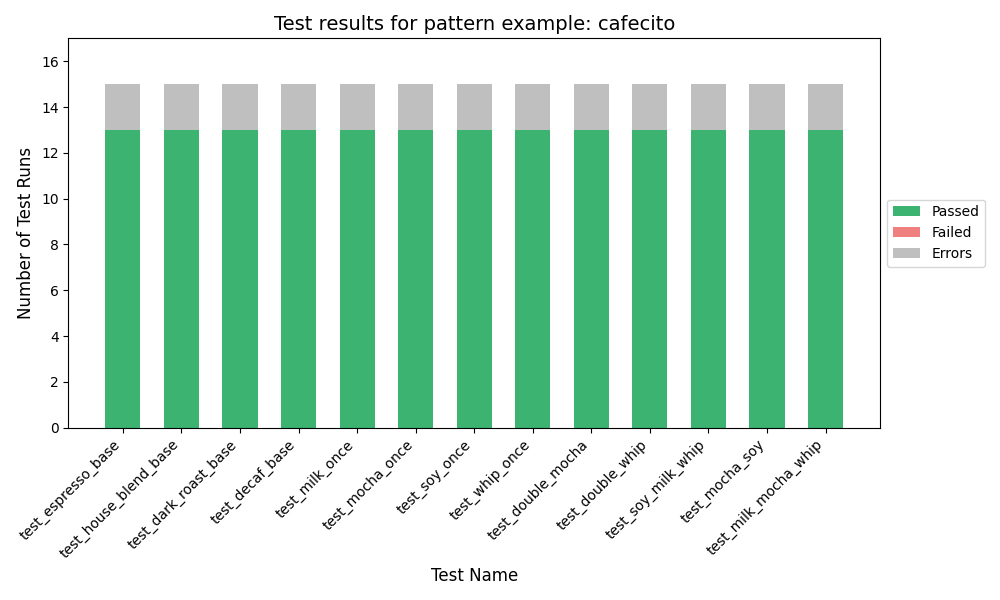
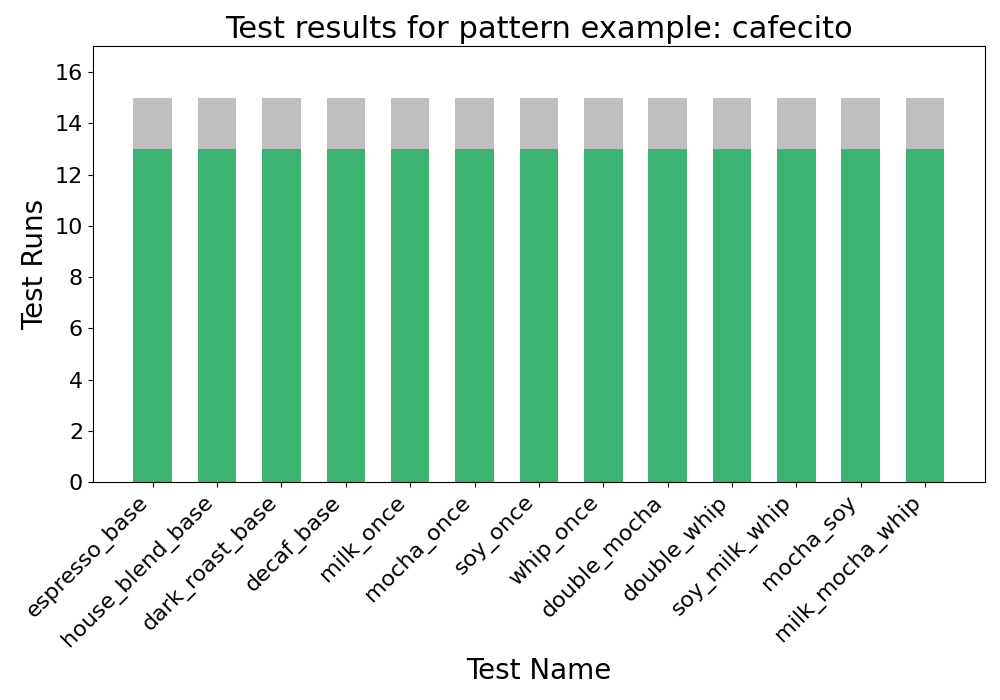
update to readme

diff --git a/data/tools/plotgeneration/plot_report_testnames.py b/data/tools/plotgeneration/plot_report_testnames.py
@@ -5,7 +5,7 @@ import matplotlib.pyplot as plt
 import json
 import sys
 
-BASEDIR = "../results/"
+BASEDIR = "../../results/"
 
 PARENTFOLDER = sys.argv[1] if len(sys.argv) > 1 else "geminiflash2.5_1"   # This is the name of the parent folder you want to use for grouping results.
 #gpt4o-mini
@@ -51,6 +51,11 @@ def gather_full_test_results(base_dir=BASEDIR):
                     if 'test' in df.columns and 'outcome' in df.columns:
                         for _, row in df.iterrows():
                             test_name = row['test'].split("::")[-1]
+                            #remove leading test_ from test_name
+                            test_name = test_name.replace("test_", "", 1)
+                            #if test_name > 30 truncate
+                            if len(test_name) > 32:
+                                test_name = test_name[:32] + "..."
                             outcome = row['outcome']
                             if outcome in ['passed', 'failed']:
                                 result[parent_folder_name][patternexample]['tests'][test_name][outcome] += 1
@@ -61,7 +66,10 @@ def gather_full_test_results(base_dir=BASEDIR):
 
 
 
-def plot_stacked_test_results(results_dict, parent_folder_name, save_plots=False, save_dir="../report/test_plots"):
+import os
+import matplotlib.pyplot as plt
+
+def plot_stacked_test_results(results_dict, parent_folder_name, save_plots=False, save_dir="../../report/test_plots"):
     for patternexample, data in results_dict.items():
         tests = data['tests']
         errors = data['errors']
@@ -75,7 +83,8 @@ def plot_stacked_test_results(results_dict, parent_folder_name, save_plots=False
         bottom_error = [p + f for p, f in zip(passed_counts, failed_counts)]
 
         fig_width = max(10, 0.75 * len(test_names))  # dynamic width
-        plt.figure(figsize=(fig_width, 6))
+
+        plt.figure(figsize=(fig_width, 7))
         plt.bar(test_names, passed_counts, label='Passed', color='mediumseagreen', width=0.6)
         plt.bar(test_names, failed_counts, bottom=bottom_failed, label='Failed', color='lightcoral', width=0.6)
         plt.bar(test_names, error_counts, bottom=bottom_error, label='Errors', color='gray', alpha=0.5, width=0.6)
@@ -83,20 +92,62 @@ def plot_stacked_test_results(results_dict, parent_folder_name, save_plots=False
         max_y = max([p + f + e for p, f, e in zip(passed_counts, failed_counts, error_counts)])
         plt.ylim(0, max_y + 2)
 
-        plt.xlabel("Test Name", fontsize=12)
-        plt.ylabel("Number of Test Runs", fontsize=12)
-        plt.title(f"Test results for pattern example: {patternexample}", fontsize=14)
-        plt.xticks(rotation=45, ha='right', fontsize=10)
-        plt.yticks(fontsize=10)
-        plt.legend(loc='center left', bbox_to_anchor=(1.0, 0.5))
+        plt.xlabel("Test Name", fontsize=20)            # bigger xlabel
+        plt.ylabel("Test Runs", fontsize=20)  # bigger ylabel
+        plt.title(f"Test results for pattern example: {patternexample}", fontsize=22)  # bigger title
+        plt.xticks(rotation=45, ha='right', fontsize=16)  # bigger x ticks
+        plt.yticks(fontsize=16)                            # bigger y ticks
+           
+        #plt.legend(loc='center left', bbox_to_anchor=(1.0, 0.5), fontsize=14)  # bigger legend
         plt.tight_layout()
-
 
         if save_plots:
             output_folder = os.path.join(save_dir, parent_folder_name)
             os.makedirs(output_folder, exist_ok=True)
             output_path = os.path.join(output_folder, f"{patternexample}.png")
             plt.savefig(output_path)
+            plt.close()
+            print(f"Saved plot to {output_path}")
+        else:
+            plt.show()
+
+
+def plot_stacked_test_results_horizontal(results_dict, parent_folder_name, save_plots=False, save_dir="../../report/test_plots"):
+    for patternexample, data in results_dict.items():
+        tests = data['tests']
+        errors = data['errors']
+
+        test_names = list(tests.keys())
+        passed_counts = [tests[t]['passed'] for t in test_names]
+        failed_counts = [tests[t]['failed'] for t in test_names]
+        error_counts = [errors] * len(test_names)
+
+        fig_height = max(8, 0.5 * len(test_names))
+        plt.figure(figsize=(14, fig_height))
+
+        y_pos = range(len(test_names))
+
+        plt.barh(y_pos, passed_counts, label='Passed', color='mediumseagreen', height=0.6)
+        plt.barh(y_pos, failed_counts, left=passed_counts, label='Failed', color='lightcoral', height=0.6)
+        plt.barh(y_pos, error_counts, left=[p + f for p, f in zip(passed_counts, failed_counts)], label='Errors', color='gray', alpha=0.5, height=0.6)
+
+        plt.yticks(y_pos, test_names, fontsize=18)
+        plt.xlabel("Number of Test Runs", fontsize=22, fontweight='bold', labelpad=15)  # space below xlabel
+        plt.title(f"Test results for pattern example: {patternexample}", fontsize=26, fontweight='bold', pad=25)  # space above title
+
+        plt.legend(loc='center left', bbox_to_anchor=(1.02, 0.5), fontsize=18, borderaxespad=0)
+
+        max_total = max([p + f + e for p, f, e in zip(passed_counts, failed_counts, error_counts)])
+        plt.xlim(0, max_total + 2)  # padding on right side
+
+        plt.subplots_adjust(left=0.3)  # space on left for y labels
+        plt.tight_layout()
+
+        if save_plots:
+            output_folder = os.path.join(save_dir, parent_folder_name)
+            os.makedirs(output_folder, exist_ok=True)
+            output_path = os.path.join(output_folder, f"{patternexample}.png")
+            plt.savefig(output_path, bbox_inches='tight')  # bbox_inches to fit legend
             plt.close()
             print(f"Saved plot to {output_path}")
         else:

diff --git a/data/tools/overallresults.py b/data/tools/overallresults.py
@@ -1,0 +1,55 @@
+import os
+import csv
+from collections import defaultdict
+
+def parse_percentage(value):
+    return float(value.strip().replace('%', ''))
+
+def process_file(filepath):
+    pattern_stats = defaultdict(lambda: defaultdict(list))
+    overall_stats = defaultdict(list)
+
+    with open(filepath, 'r', encoding='utf-8') as f:
+        reader = csv.DictReader(f)
+        for row in reader:
+            pattern = row['Pattern']
+            applied = parse_percentage(row['Applied'])
+            passed = parse_percentage(row['Passed Tests'])
+            perfect = parse_percentage(row['Perfect'])
+
+            # Grouped stats by pattern
+            pattern_stats[pattern]['Applied'].append(applied)
+            pattern_stats[pattern]['Passed'].append(passed)
+            pattern_stats[pattern]['Perfect'].append(perfect)
+
+            # Overall stats
+            overall_stats['Applied'].append(applied)
+            overall_stats['Passed'].append(passed)
+            overall_stats['Perfect'].append(perfect)
+
+    return pattern_stats, overall_stats
+
+def compute_averages(stats):
+    return {k: round(sum(v)/len(v), 2) if v else 0 for k, v in stats.items()}
+
+def main(folder_path):
+    for filename in os.listdir(folder_path):
+        if filename.endswith(".csv"):
+            filepath = os.path.join(folder_path, filename)
+            pattern_stats, overall_stats = process_file(filepath)
+
+            print(f"\n📄 File: {filename}\n")
+
+            print("Average Percentage by Pattern:")
+            for pattern, stats in pattern_stats.items():
+                averages = compute_averages(stats)
+                print(f"  {pattern}: Applied: {averages['Applied']}%, Passed Tests: {averages['Passed']}%, Perfect: {averages['Perfect']}%")
+
+            overall_avg = compute_averages(overall_stats)
+            print("\nOverall Averages in File:")
+            print(f"  Applied: {overall_avg['Applied']}%, Passed Tests: {overall_avg['Passed']}%, Perfect: {overall_avg['Perfect']}%")
+
+if __name__ == "__main__":
+    folder_path = "../report/per_model_summaries"  # Your folder path here
+    main(folder_path)
+

diff --git a/data/tools/plotgeneration/csv_to_chart.py b/data/tools/plotgeneration/csv_to_chart.py
@@ -55,13 +55,13 @@ def create_pie_charts(csv_file, name_column, value_columns, output_name_column, 
                               markeredgecolor='black', markeredgewidth=1)
                    for color in full_colors]
 
-        ax.legend(handles=handles, labels=short_labels, title="Design Pattern",
+        '''ax.legend(handles=handles, labels=short_labels, title="Design Pattern",
                   loc='center left', bbox_to_anchor=(1.05, 0.5),
                   fontsize=14, title_fontsize=16,
                   frameon=True, fancybox=True,
                   borderpad=1, borderaxespad=1,
                   edgecolor='gray', facecolor='white', shadow=True)
-
+        '''
         plt.tight_layout()
         chart_path = os.path.join(subdir, f"{output_name}.png")
         plt.savefig(chart_path, bbox_inches='tight')
@@ -69,7 +69,7 @@ def create_pie_charts(csv_file, name_column, value_columns, output_name_column, 
         print(f"Saved chart: {chart_path}")
 
 if __name__ == "__main__":
-    csv_file = "../report/summary.csv"
+    csv_file = "../../report/summary.csv"
     name_column = "Model Name"
     value_columns = ["Applies Design Pattern Yes", "Applies Design Pattern No", "Applies Design Pattern Flawed"]
     output_name_column = "Example File"

diff --git a/src/utils/compare_tests.py b/src/utils/compare_tests.py
@@ -20,6 +20,8 @@ def get_all_files(folder_path):
     return files
 
 def compare_tests_in_all_dirs(root_dir):
+    avarage_diff = 0
+    total_files = 0
     for subdir, dirs, _ in os.walk(root_dir):
         if "base_folder" in dirs and "refactored_folder" in dirs:
             base_test_dir = os.path.join(subdir, "base_folder", "test")
@@ -44,6 +46,13 @@ def compare_tests_in_all_dirs(root_dir):
                     refactored_file = refactored_files[rel_path]
                     diff = compare_file_contents(base_file, refactored_file)
                     print(f"  {rel_path}: {diff}% different")
+                    avarage_diff += diff
+                    total_files += 1
+    if total_files > 0:
+        avarage_diff /= total_files
+        print(f"\nAverage difference across all compared test files: {avarage_diff:.2f}%")
+    else:
+        print("\nNo test files were compared.")
 
 # Example usage:
 # compare_tests_in_all_dirs("/path/to/root_dir")

diff --git a/commenti.md b/commenti.md
@@ -555,26 +555,62 @@ say the prompt used for openai4o is a bit different
 
 say about plantuml and the github repository
 
+about the prompt say you used the strategy to tell its role!!!
 
 
 
 consistent naming is important for tests
-iterative process on prompt and what i learned
+underscore_case is preferred
 bias from language
-if you are closer to the right solution it's easier
-benchmarks for big prompt and code change
-balance between too many and too few classes
-comments are the reason why gemini is good? But a lot more tokens are generated
-training biases for car, maybe?
+iterative process on prompt and what i learned
+less description did horrible (no Motivation and Sample Code) -> learning from examples is important, refer to openai guide
+tests and implementation did worse
+changed the order of input code did terrible (code and tests at the end) refer to openai guide
+tests and implementation did worse
+benchmarks for big prompt and code change (gemini good, what about gpt?)
+balance between too many and too few classes (adapter and decorator)
+comments are the reason why gemini is good? But a lot more tokens are generated sometimes even 3x as much
+training biases for car because common, maybe (gpt that tends to simplicity)?
 giving instructions to fix something makes the llm not pay attention to other instructions
-gemini sometimes ends too early, or makes spelling mistakes
-gemini makes complex solutions, but this sometimes leads to errors
+gemini sometimes ends generation too early, or makes spelling mistakes
+gemini makes complex solutions, but this sometimes leads to errors (singleton added in state)
 gpt makes simpler solutions that pass tests but don't refactor
-custom and standard might influence both in good and bad (car)
+gpt4o mini and gpt4o have very similar results
+custom and standard might influence both in good and bad (car) ways
+if you are closer to the right solution it's easier to implement the pattern
+table with Example File Type Pattern Applied Flawed Not Applied Passed Tests Perfect (both tests and applied) 
+grouped bar charts confronting Applied Passed Tests Perfect
+telling it to only return code maybe made the results bad?
 
-reverse engineering might be a problem
+
+overall performance
+
+should i add a drawing for the pipeline?
+
+
+reverse engineering the already refactored code might be a problem
+
 too few examples
+only 5 design patterns
 lack of variety
+many parameters to consider (how different, how difficult, how many classes?)
 not many parameters were tried
+some start code was closer to the refactor, some was further
 too easy
-more patterns together
+try with real code
+
+try asking the ai to find the pattern to apply
+more patterns together at the same time 
+
+still effort to think of the refactoring 
+but 
+tests edit distance with diff
+
+other studies used metrics that can be calculated easily. difficult to scale -> 
+either do static analysis in typed languages
+or dynamic extension tests in languages such as python
+try LLM as a judge and see if it has the same output as humans
+
+regenerate response???
+
+plantuml!!!! and json change github repo

diff --git a/README.md b/README.md
@@ -78,27 +78,14 @@ All outputs are saved in a timestamped directory inside save_folder_path named a
 └── parameters.json
 ```
 
----
-
-## Class: `RefactorFrontEnd`
-
-### Methods
-
-* **`__init__`**: Initializes refactoring configuration and parameters.
-* **`generate_prompt()`**: Builds a prompt using `PromptCreator`.
-* **`prepare_save_directory()`**: Creates output folders with timestamp.
-* **`get_response_strategy()`**: Selects and returns the model strategy.
-* **`generate_refactored_code()`**: Submits the prompt to the model and stores the response.
-* **`save_outputs()`**: Saves all output files.
-* **`run()`**: Executes the full workflow (prompt → response → save).
-
----
-
 ## Notes
 
 * Currently, only the `openai` `gemini` strategies are implemented.
 * To use openAI from command line a OPENAI_API_KEY environment variable must be set.
+* To use Gemini from command line a GOOGLE_API_KEY environment variable must be set.
 
+
+#
 ---
 
 # `tester.py` – Automated Testing Tool for Refactored Code
